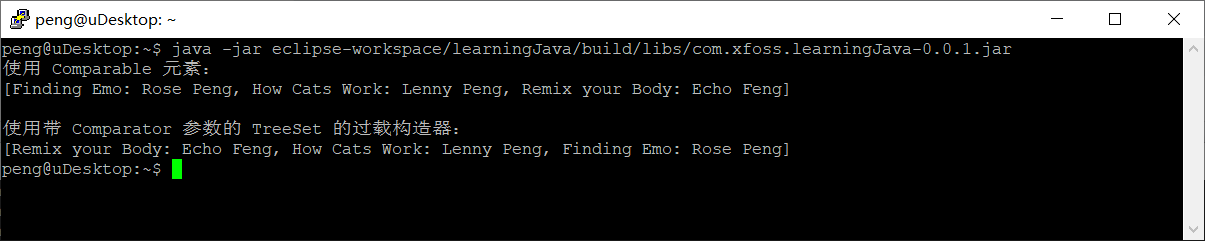
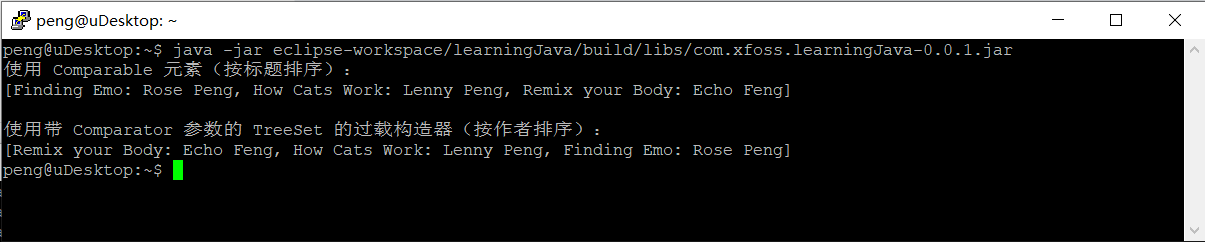
Updated.

diff --git a/src/main/java/com/xfoss/CollectionAndGenerics/TestTree.java b/src/main/java/com/xfoss/CollectionAndGenerics/TestTree.java
@@ -15,7 +15,7 @@ public class TestTree {
         treeComparable.add(b2);
         treeComparable.add(b3);
 
-        System.out.format("使用 Comparable 元素：\n%s\n\n", treeComparable);
+        System.out.format("使用 Comparable 元素（按标题排序）：\n%s\n\n", treeComparable);
 
 
         TreeSet<Book> treeComparator = new TreeSet<Book> (new CompareWriter());
@@ -23,7 +23,7 @@ public class TestTree {
         treeComparator.add(b2);
         treeComparator.add(b3);
 
-        System.out.format("使用带 Comparator 参数的 TreeSet 的过载构造器：\n%s\n", treeComparator);
+        System.out.format("使用带 Comparator 参数的 TreeSet 的过载构造器（按作者排序）：\n%s\n", treeComparator);
     }
 
     class CompareWriter implements Comparator<Book> {

diff --git a/docs/Ch16_Collections_and_Generics_Data_Structure.md b/docs/Ch16_Collections_and_Generics_Data_Structure.md
@@ -1514,4 +1514,4 @@ public class TestTree {
 ![`TreeSet` 排序的两种不同方式：实现 `Comparable` 接口与使用 `Comparator` 作为构造器参数](images/Ch16_26.png)
 
 
-*图 26 - `TreeSet` 排序的两种不同方式：实现 `Comparable` 接口与使用 `Comparator` 作为构造器参数*
+*图 26 - `TreeSet` 实现排序的两种不同方式：实现 `Comparable` 接口与使用 `Comparator` 作为构造器参数*
